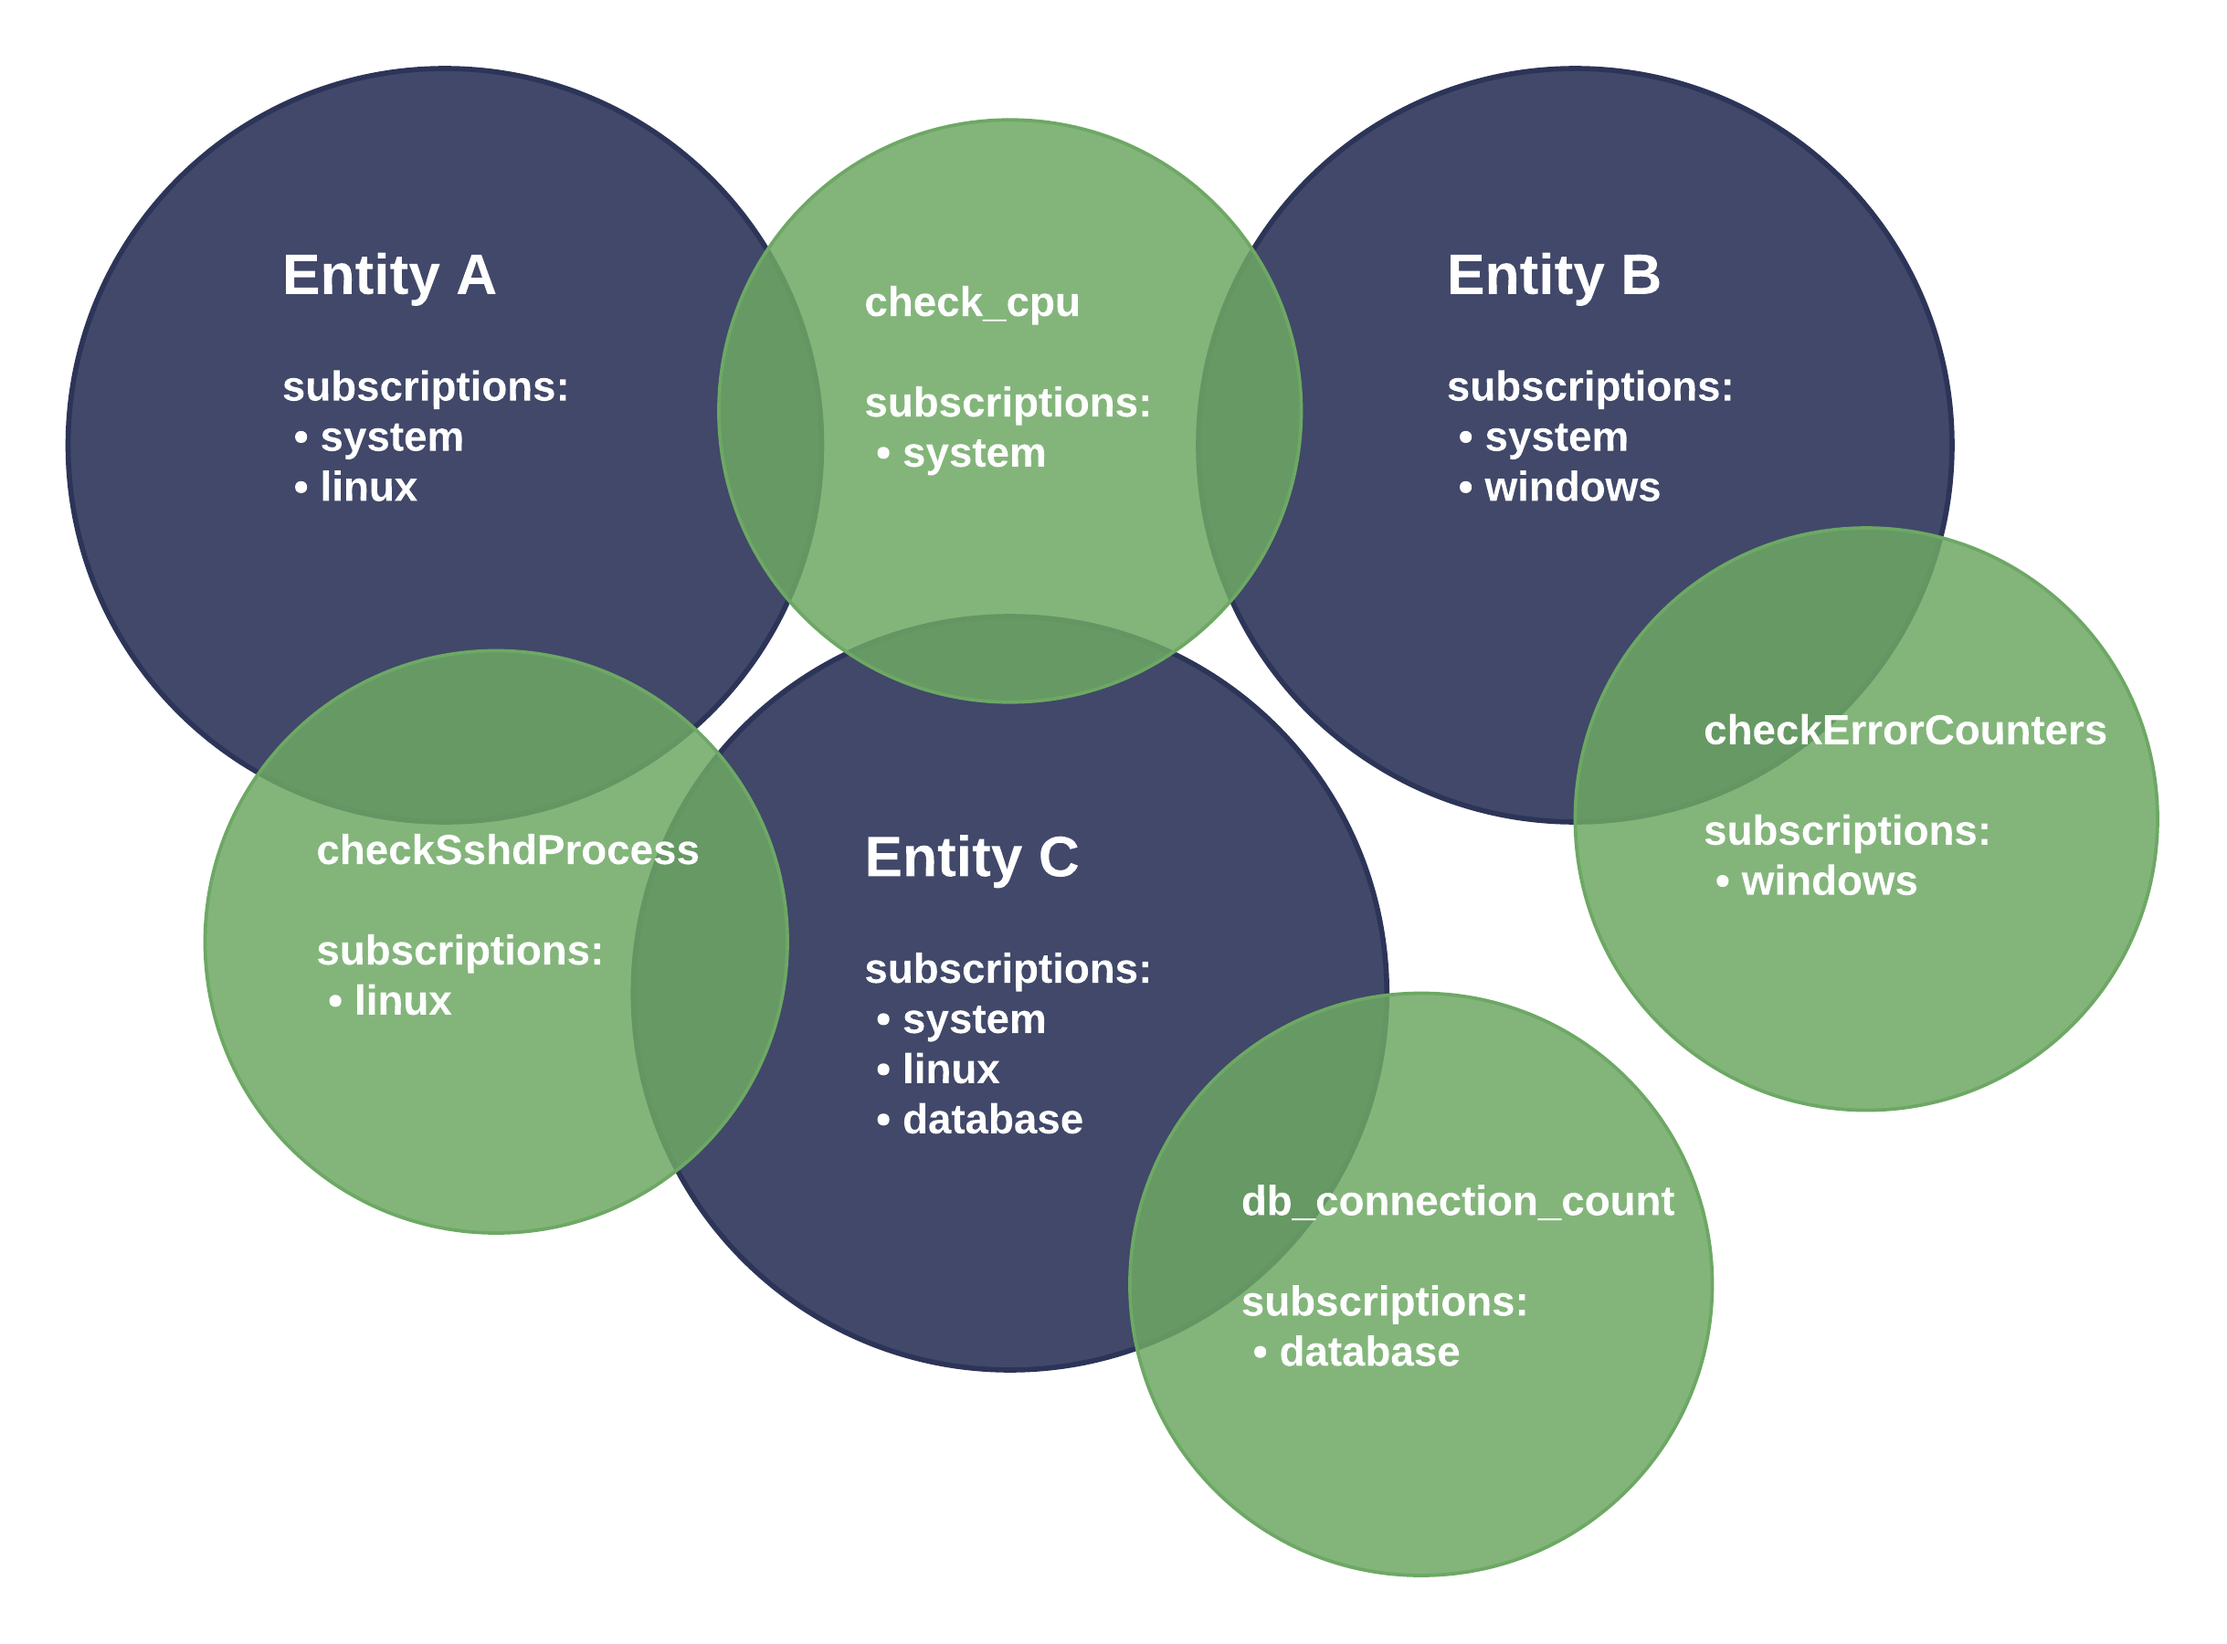
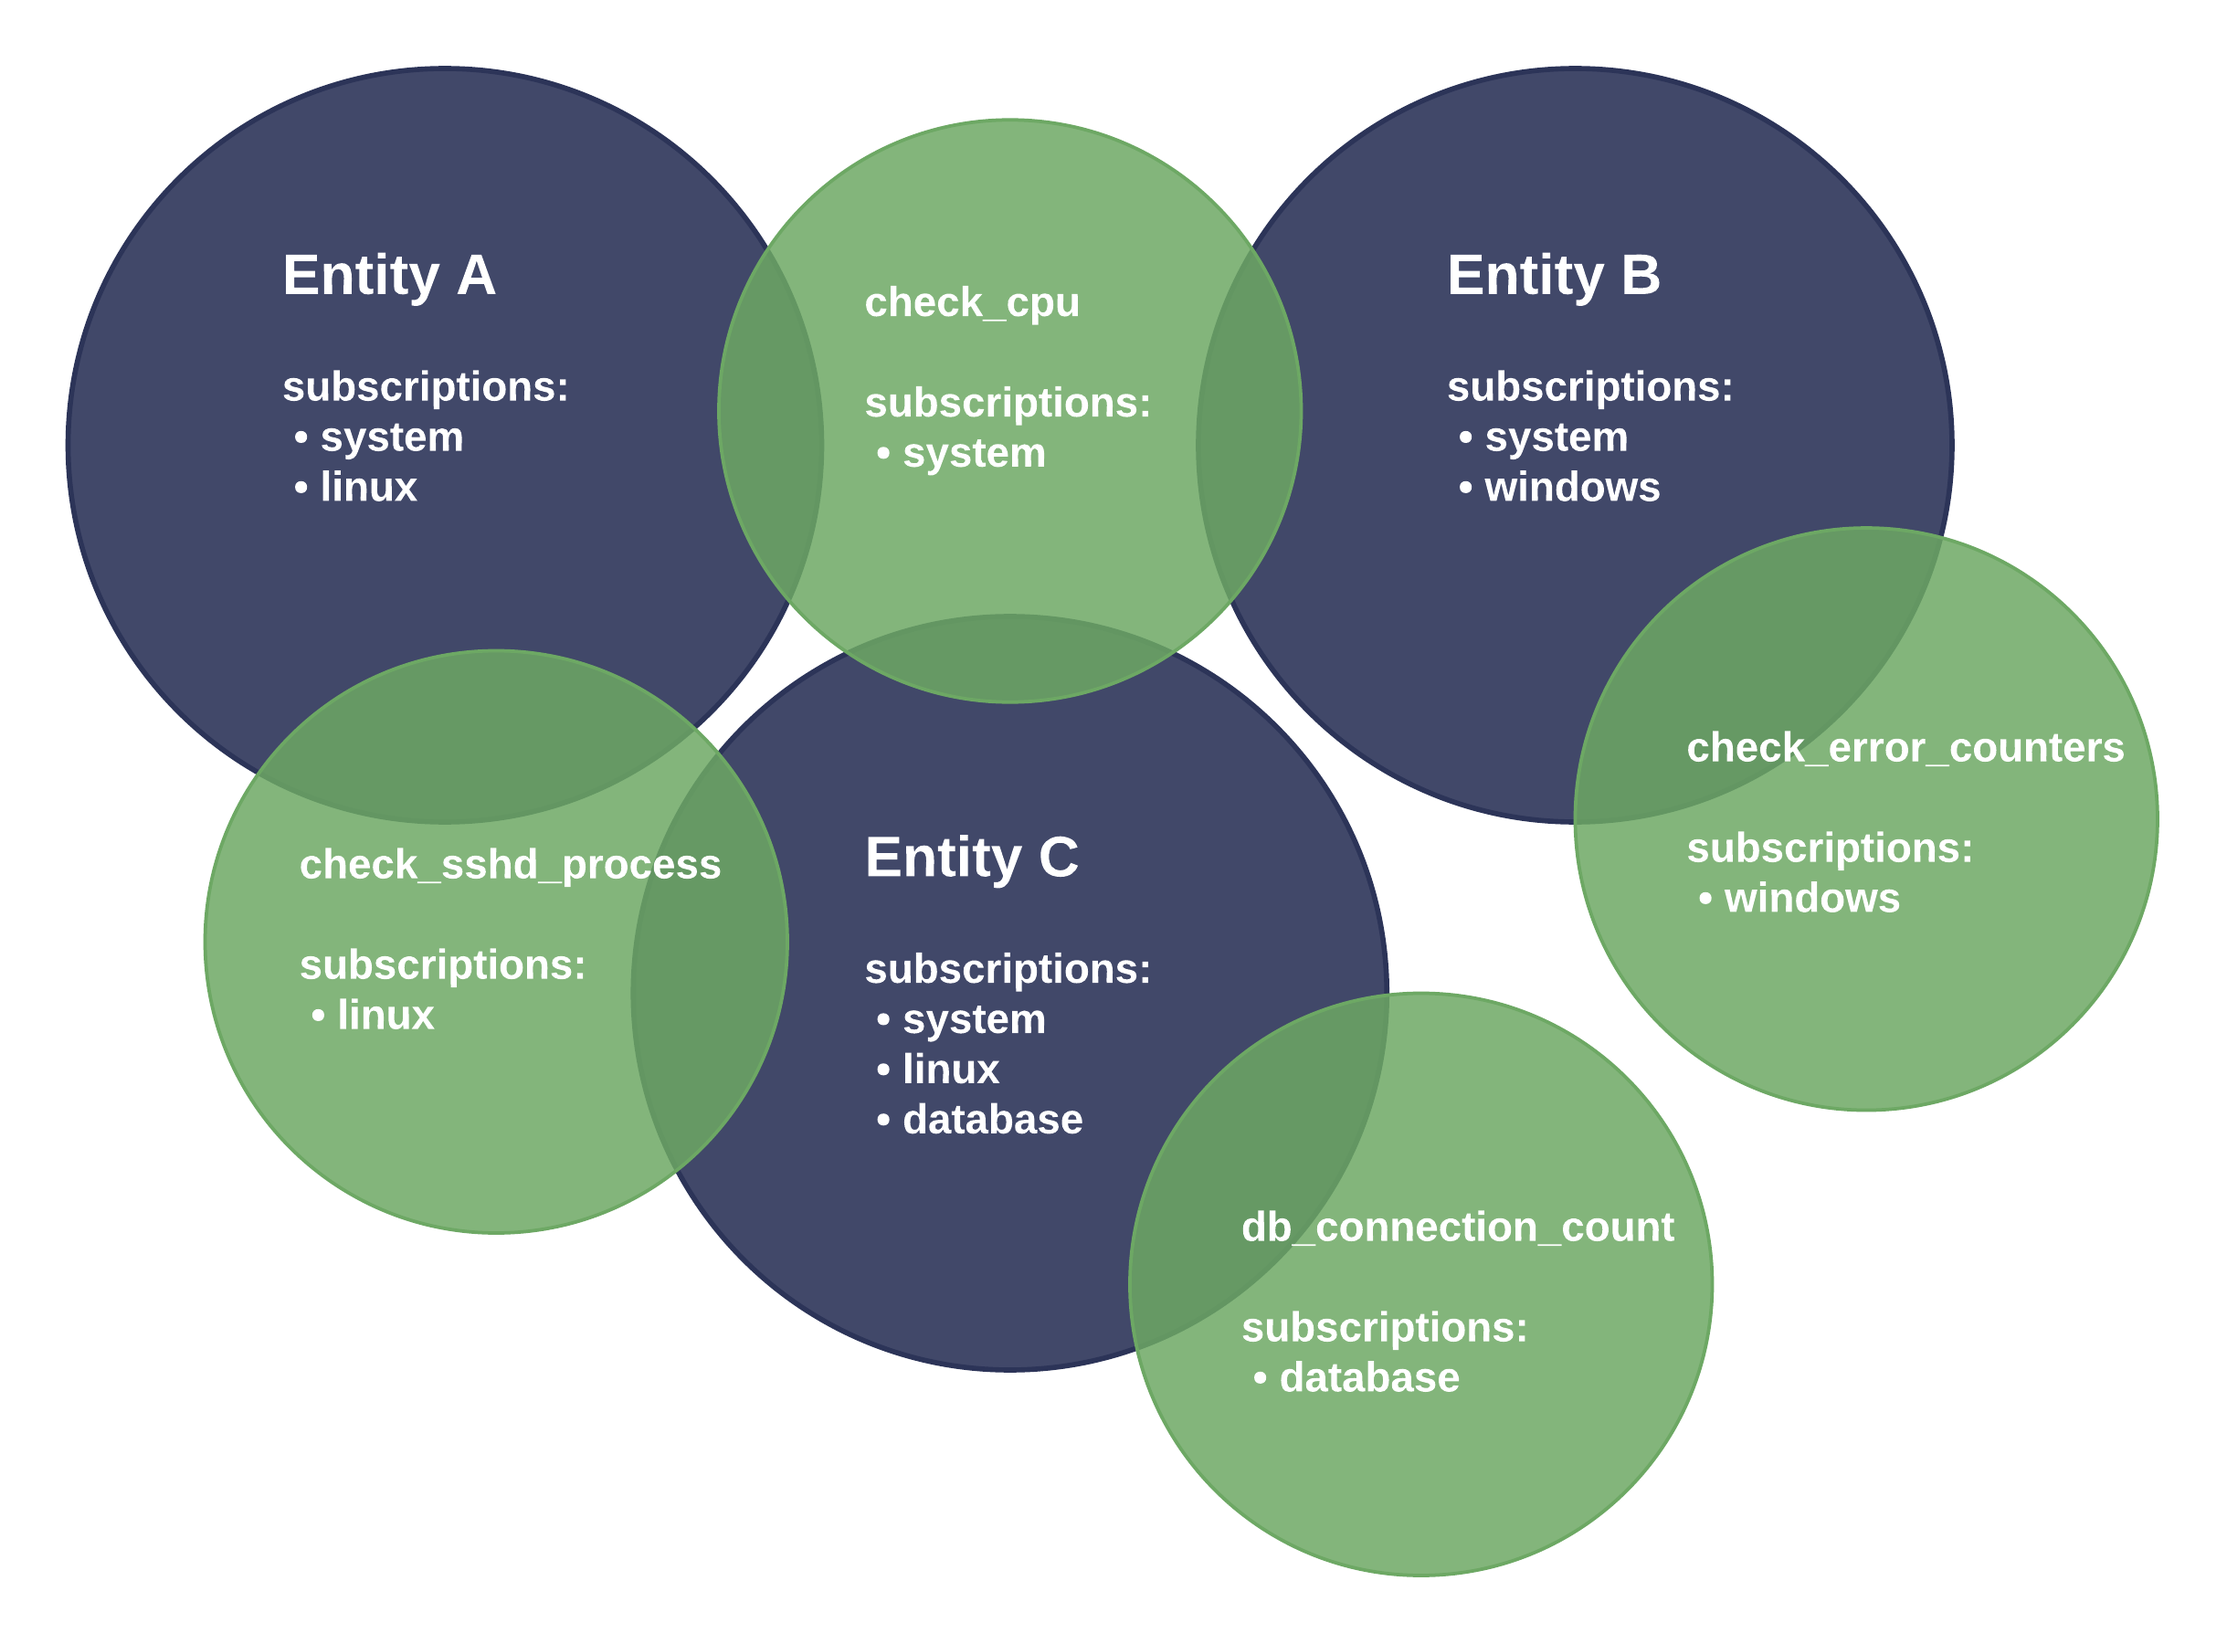
Update check names in diagram and text

diff --git a/content/sensu-go/6.1/observability-pipeline/observe-schedule/subscriptions.md b/content/sensu-go/6.1/observability-pipeline/observe-schedule/subscriptions.md
@@ -23,10 +23,10 @@ The Sensu backend coordinates check execution for you by comparing the subscript
 The diagram below shows how Sensu coordinates check execution based on subscriptions.
 For example, the `check_cpu` check includes the `system` subscription.
 All three entities include the `system` subscription, so all three entities will execute the `check_cpu` check.
-However, only Entity A and Entity C will execute `checkSshdProcess` &mdash; Entity B does not include the `linux` subscription required to execute `checkSshdProcess`.
+However, only Entity A and Entity C will execute `check_sshd_process` &mdash; Entity B does not include the `linux` subscription required to execute `check_sshd_process`.
 
 {{< figure src="/images/subscriptions_venn.png" alt="Venn diagram example of Sensu check execution based on subscriptions" link="/images/subscriptions_venn.png" target="_blank" >}}
-<!-- Diagram source: https://app.lucidchart.com/invitations/accept/0aa33f39-128d-449d-8312-04f415d8cfca -->
+<!-- Diagram source: https://app.lucidchart.com/lucidchart/invitations/accept/25d40e7e-7293-4189-84e0-ef8c3a4c8ec5 -->
 
 *<p style="text-align:center">Sensu check execution based on subscriptions</p>*
 
